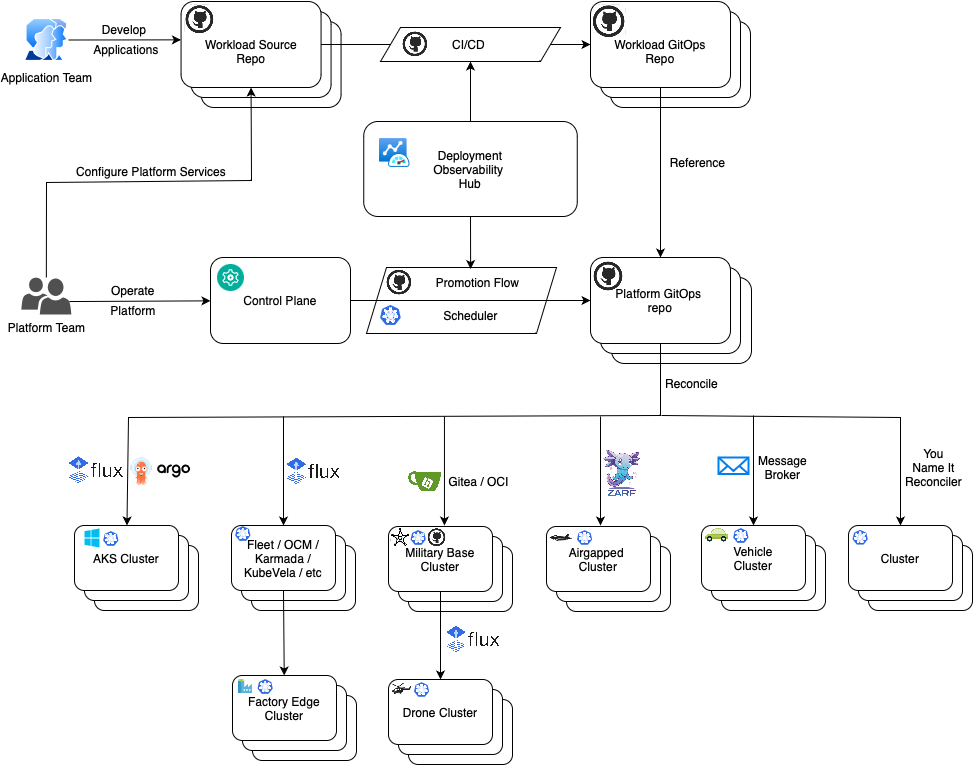
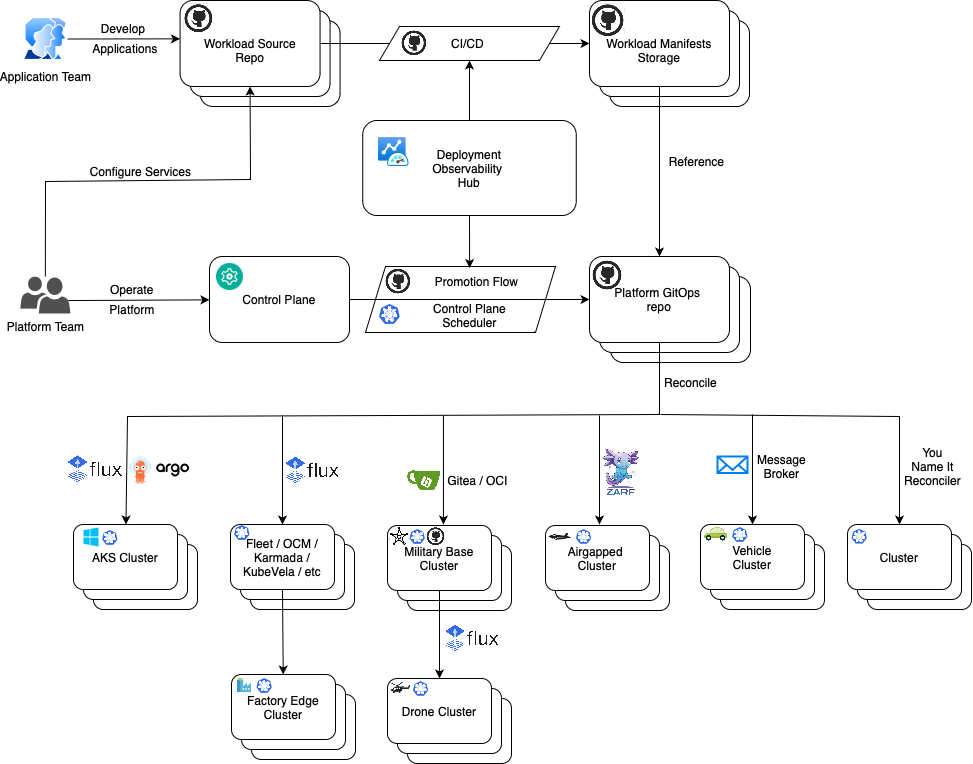
readme

diff --git a/README.md b/README.md
@@ -20,6 +20,7 @@ The scenarios described above can be handled manually with a handful of scripts 
 - Promotion of the fleet state through a chain of environments
 - Sophisticated, extensible and replaceable scheduler
 - Flexibility to use different reconcilers for different cluster types depending in their nature and connectivity
+- Abstracting Application Team away from the details of the clusters in the fleet
 
 ### Existing projects
 
@@ -62,7 +63,7 @@ Application Operators work with the applications on the clusters on the edge. Th
 
 The diagram above describes interaction between the roles and the major components of the solution. The primary concept of the whole process is separation of concerns. There are workloads, such as applications and platform services, and there is a platform where these workloads are working on. Application team takes care of the workloads (*what*), while the platform team is focused on the platform (*where*).
 
-Application Team runs SDLC of their applications and promotes changes across environments. Application Team doesn't operate with the notion of the cluster. They have no idea on which clusters their application will be deployed in each environments. Application Team operates with the concept of *Deployment Target*, which is just an abstraction within an environment. Examples of deployment targets could be: *Integration* on Dev, *functional tests* and *performance tests* on QA, *early adopters* and *external users* on Prod and so on. Application Team defines deployment targets for each environment and they know how to configure their application and how to generate manifests for each deployment target. This process is owned by Application Team, it is automated and exists in the application repositories space. The outcome of the Application Team is generated manifests for each deployment target, stored in a git repository.
+Application Team runs SDLC of their applications and promotes changes across environments. Application Team doesn't operate with the notion of the cluster. They have no idea on which clusters their application will be deployed in each environments. Application Team operates with the concept of *Deployment Target*, which is just an abstraction within an environment. Examples of deployment targets could be: *Integration* on Dev, *functional tests* and *performance tests* on QA, *early adopters* and *external users* on Prod and so on. Application Team defines deployment targets for each environment and they know how to configure their application and how to generate manifests for each deployment target. This process is owned by Application Team, it is automated and exists in the application repositories space. The outcome of the Application Team is generated manifests for each deployment target, stored in a manifests storage, such as a Git repository.
 
 Platform team has a very limited knowledge about the applications and therefore is not involved in the application configuration and deployment process. Platform team is in charge of platform clusters, that are grouped in *Cluster Types*. They describe *Cluster Types* with configuration values, such as DNS names, endpoints of external services and so on. Platform team assigns (*schedules*) application deployment targets to various cluster types. With that in place, the application behavior will be determined by the combination of *Deployment Target* configuration values, provided by Application Team, and *Cluster Type* configuration values, provided by the Platform Team.  
 
@@ -73,15 +74,15 @@ Clusters report their compliance state with GitOps repositories to the *Deployme
 ## Primary Use Cases
 
 - [Platform team onboards a workload](./docs/use-cases/platform-team-onboards-workload.md)
-- [Platform team defines a cluster type](./docs/images/under-construction.png)
-- [Platform team provides a configuration value for a cluster type](./docs/images/under-construction.png)
-- [Platform team schedules an application on cluster types](./docs/images/under-construction.png)
-- [Application team defines application deployment targets](./docs/images/under-construction.png)
-- [Application team provides a configuration value for a deployment target](./docs/images/under-construction.png)
-- [Application team updates the application](./docs/images/under-construction.png)
-- [Platform team defines service deployment targets](./docs/images/under-construction.png)
-- [Platform team provides a configuration value for a service deployment target](./docs/images/under-construction.png)
-- [Platform team updates a platform service](./docs/images/under-construction.png)
+- [Platform team defines a cluster type](./docs/use-cases/platform-team-defines-cluster-type.md)
+- [Platform team provides configuration values for a cluster type](./docs/use-cases/platform-team-config-values.md)
+- [Platform team schedules an application on cluster types](./docs/use-cases/platform-team-scheduled-application.md)
+- [Application team defines application deployment targets](./docs/use-cases/application-team-defines-deployment-targets.md)
+- [Application team provides a configuration value for a deployment target](./docs/use-cases/application-team-provides-configuration-value.md)
+- [Application team updates the application](./docs/use-cases/application-team-updates-application.md)
+- [Platform team defines service deployment targets](./docs/use-cases/platform-team-defines-deployment-targets.md)
+- [Platform team provides a configuration value for a service deployment target](./docs/use-cases/platform-team-provides-configuration-value.md)
+- [Platform team adds a platform service](./docs/use-cases/platform-team-adds-platform-service.md)
 
 ## Design Details
 
@@ -140,7 +141,7 @@ In the *Platform GitOps repo* each workload assignment to a *ClusterType* is rep
 - A dedicated namespace for this workload on a cluster of this type
 - Platform policies restricting workload permissions
 - Consolidated platform config maps and secrets that the workload can use
-- Reconciler resources pointing to a *Workload GitOps repo* where the actual workload manifests live. E.g. Flux GitRepository and Flux Kustomization, ArgoCD Application, Zarf descriptors, etc.
+- Reconciler resources pointing to a *Workload Manifests Storage* where the actual workload manifests or Helm charts live. E.g. Flux GitRepository and Flux Kustomization, ArgoCD Application, Zarf descriptors, etc.
 
 ### Dial-tone services
 
@@ -152,7 +153,7 @@ Dial-tone services are workloads and therefore they live in their own source/Git
 
 ### Cluster types and Reconcilers
 
-Every single cluster type can use a different reconciler to deliver manifests from the *GitOps repos*. Reconciler examples are Flux, ArgoCD, Zarf, Rancher Fleet, etc. *Cluster Type* definition refers to a *reconciler*, which is merely a named collection of manifest templates. The scheduler uses these templates to produce reconciler resources such as Flux GitRepository and Flux Kustomization, ArgoCD Application, Zarf descriptors, etc. The very same workload may be scheduled to the *Cluster Types* managed by different reconcilers, for example Flux and ArgoCD. The scheduler will generate Flux GitRepository and Flux Kustomization for one cluster and ArgoCD Application for another cluster, but both of them will point to the same *Workload GitOps repository* containing the workload manifests.
+Every single cluster type can use a different reconciler to deliver manifests from the *Workload Manifests Storages*. Reconciler examples are Flux, ArgoCD, Zarf, Rancher Fleet, etc. *Cluster Type* definition refers to a *reconciler*, which is merely a named collection of manifest templates. The scheduler uses these templates to produce reconciler resources such as Flux GitRepository and Flux Kustomization, ArgoCD Application, Zarf descriptors, etc. The very same workload may be scheduled to the *Cluster Types* managed by different reconcilers, for example Flux and ArgoCD. The scheduler will generate Flux GitRepository and Flux Kustomization for one cluster and ArgoCD Application for another cluster, but both of them will point to the same *Workload Manifests Storage* containing the workload manifests.
 
 ### Extensible Scheduler
 
@@ -160,7 +161,7 @@ Kalypso scheduler operates with the [Control Plane abstractions](https://github.
 
 ### Deployment Observability Hub
 
-Deployment Observability Hub is implemented as a central storage which is easy to query with complex queries against a large amount of data. It contains deployment data with the historical information on the workload versions and their deployment state across clusters in the fleet. Clusters register themselves in the storage and update their compliance status with an agent (e.g. Arc Flux Configuration agent). Clusters operate at the level of GitOps commits only. High level information, such as application versions, environments, cluster types is transferred to the central storage from the *GitOps repos*. In the central storage the high level information gets correlated with the commit compliance data coming from the clusters. See the details in the [Kalypso Observability Hub](./docs/images/under-construction.png) repo.
+Deployment Observability Hub is implemented as a central storage which is easy to query with complex queries against a large amount of data. It contains deployment data with the historical information on the workload versions and their deployment state across clusters in the fleet. Clusters register themselves in the storage and update their compliance status with an agent (e.g. Arc Flux Configuration agent). Clusters operate at the level of GitOps commits only. High level information, such as application versions, environments, cluster types is transferred to the central storage from the *Workload Manifests Storages*. In the central storage the high level information gets correlated with the commit compliance data coming from the clusters. See the details in the [Kalypso Observability Hub](./docs/images/under-construction.png) repo.
 
 ## Referenced Repositories
 

diff --git a/docs/use-cases/platform-team-adds-platform-service.md b/docs/use-cases/platform-team-adds-platform-service.md
@@ -1,0 +1,13 @@
+# Platform team adds a platform service
+
+*Preconditions*:
+
+- Platform Service Source repo exists
+- Platform Service Manifest Storage exists
+
+*Postconditions*:
+
+- Platform Service Manifests and images are pulled and checked
+- Manifests for the deployment targets are generated and put in the corresponding storage places 
+
+Platform team submits a PR to the *main* branch in the Service Source repository with a file, that contains a reference to the external manifests storage. For example, a reference to a Grafana Helm chart in https://grafana.github.io/helm-charts. Once the PR is merged to *main*, it starts a CI/CD workflow. The workflow pulls the manifests from the external storage, pulls service images and performs standard security scanning. Then, it generates manifests for the deployment targets defined for the first environment in the rollout chain (e.g. *dev*) and places them to the Manifest Storage, such as an OCI storage or a local Helm repo, or just a Git repo. The manifests are generated with the config values provided for the deployment target in the config branch of the Service Source repository. Once the Platform Team is satisfied with the deployment to the first environment, they promote the change to the next environment, so the CD workflow goes ahead and generates manifests for the deployment targets in that environment.     

diff --git a/docs/use-cases/platform-team-config-values.md b/docs/use-cases/platform-team-config-values.md
@@ -1,0 +1,14 @@
+# Platform team provides configuration values for a cluster type
+
+*Preconditions*:
+
+- Control Plane and Platform GitOps repositories exist and have environment branches  
+
+*Postconditions*:
+
+- Configuration values are stored in the control plane
+- Deployment target subfolders in the Platform GitOps repository contain consolidated config maps with all platform config values available on the cluster type
+
+Platform Team submits a PR to the control plane environment branch (e.g. *dev* or *stage*) with the a config map containing platform config values. The config map is marked with a set of custom labels. Once the PR is reviewed and merged, the scheduler scans all config maps in the environment and collects values for each cluster type basing on the label matching. Then, it creates a PR to the Platform GitOps repository with a consolidated config map in every deployment target folder. The config map contains all platform configuration values, that the workload can use on this cluster type in this environment.
+
+

diff --git a/docs/use-cases/application-team-updates-application.md b/docs/use-cases/application-team-updates-application.md
@@ -1,0 +1,13 @@
+# Application team updates the application
+
+*Preconditions*:
+
+- Application Source repo exists
+- Application Manifest Storage exists
+
+*Postconditions*:
+
+- Application is rebuilt
+- Manifests for the deployment targets are generated and put in the corresponding storage places 
+
+Application Team submits a PR with the source code change to the *main* branch in the Application Source repository. Once the PR is merged to *main*, it starts a CI/CD workflow. The workflow performs standard code quality and security checks, builds application Docker images and pushes them to the container registry. Then, it generates manifests for the deployment targets defined for the first environment in the rollout chain (e.g. *dev*) and places them to the Manifest Storage. Once the Application Team is satisfied with the deployment to the first environment, they promote the change to the next environment, so the CD workflow goes ahead and generates manifests for the deployment targets in that environment.     

diff --git a/docs/use-cases/platform-team-scheduled-application.md b/docs/use-cases/platform-team-scheduled-application.md
@@ -1,0 +1,15 @@
+# Platform team schedules an application on cluster types
+
+*Preconditions*:
+
+- Control Plane and Platform GitOps repositories exist and have environment branches  
+
+*Postconditions*:
+
+- Scheduling policy is configured in the control plane
+- Application deployment targets are assigned to the cluster types in the Platform GitOps repo 
+
+Platform Team submits a PR to the control plane environment branch (e.g. *dev* or *stage*) with a scheduling policy, that defines rules of how deployment targets should be scheduled to cluster types. The rules might be trivial, based on label matching, or they can include score-based configurations defined by OCM Placement API. Once the PR is reviewed and merged, the scheduler analyzes what deployment targets should be assigned to what cluster types in the environment. It generates assignment manifests and creates a PR to the environment branch of the Platform GitOps repository. 
+
+
+

diff --git a/docs/use-cases/application-team-defines-deployment-targets.md b/docs/use-cases/application-team-defines-deployment-targets.md
@@ -1,0 +1,15 @@
+# Application team defines application deployment targets
+
+*Preconditions*:
+
+- Application Source repo exists  
+
+*Postconditions*:
+
+- Application deployment targets are defined in the Application Source repo
+
+Application Team creates a file in their source repository containing a list of deployment targets where the application might be deployed during its lifecycle. Each deployment target references a rollout environment (e.g. *dev*, *stage*) and a place where the manifests for this deployment target are stored. It can be plain K8s manifests, Helm charts, or any other deployment descriptors, stored in a repo or OCI storage or any other storage that a reconciler on the clusters can understand. Each deployment target is marked with a set of custom labels that the Platform Team uses to schedule the deployment target on the clusters in the fleet.
+
+
+
+

diff --git a/docs/use-cases/platform-team-defines-deployment-targets.md b/docs/use-cases/platform-team-defines-deployment-targets.md
@@ -1,0 +1,15 @@
+# Platform team defines service deployment targets
+
+*Preconditions*:
+
+- Platform Service Source repo exists  
+
+*Postconditions*:
+
+- Service deployment targets are defined in the Platform Service Source repo
+
+Platform Team creates a file in their service source repository containing a list of deployment targets where the service might be deployed in the fleet. Each deployment target references a rollout environment (e.g. *dev*, *stage*) and a place where the manifests for this deployment target are stored. It can be plain K8s manifests, Helm charts, or any other deployment descriptors, stored in a repo or OCI storage or any other storage that a reconciler on the clusters can understand. Each deployment target is marked with a set of custom labels to automatically schedule the deployment target on the clusters in the fleet.
+
+
+
+

diff --git a/docs/use-cases/platform-team-provides-configuration-value.md b/docs/use-cases/platform-team-provides-configuration-value.md
@@ -1,0 +1,18 @@
+# Platform team provides a configuration value for a service deployment target
+
+*Preconditions*:
+
+- Platform Service Source repo exists
+
+*Postconditions*:
+
+- Configuration value for the deployment target is set in the Platform Service Source repo
+
+Platform Service Source repo contains configuration branches with configuration values for each environment. Each configuration branch contain folders representing deployment targets. Platform Team creates a file in a corresponding folder of the configuration branch with the config values. These values are used by the service CI/CD pipeline to generate manifests for this deployment target.
+
+Alternatively, Platform Team may prefer to use an external storage (e.g. variable groups, key vault, configuration tools, etc.) for the configuration values rather than Git repository.
+
+
+
+
+

diff --git a/docs/use-cases/application-team-provides-configuration-value.md b/docs/use-cases/application-team-provides-configuration-value.md
@@ -1,0 +1,18 @@
+# Application team provides a configuration value for a deployment target
+
+*Preconditions*:
+
+- Application Source repo exists
+
+*Postconditions*:
+
+- Configuration value for the deployment target is set in the Application Source repo
+
+Application Source repo contains configuration branches with configuration values for each environment. Each configuration branch contain folders representing deployment targets. Application Team creates a file in a corresponding folder of the configuration branch with the config values. These values are used by the application CI/CD pipeline to generate manifests for this deployment target.
+
+Alternatively, Application Team may prefer to use an external storage (e.g. variable groups, key vault, configuration tools, etc.) for the configuration values rather than Git repository.
+
+
+
+
+

diff --git a/docs/use-cases/platform-team-defines-cluster-type.md b/docs/use-cases/platform-team-defines-cluster-type.md
@@ -1,0 +1,13 @@
+# Platform team defines a cluster type
+
+*Preconditions*:
+
+- Control Plane and Platform GitOps repositories exist and have environment branches  
+
+*Postconditions*:
+
+- Information on the new cluster type is stored in the control plane environment branches
+- Platform GitOps repository environment branches contain folders representing the cluster type with the subfolders representing deployment targets scheduled on the cluster type
+
+Platform Team submits a PR to the control plane environment branch (e.g. *dev* or *stage*) with the information on the cluster type. Once the PR is reviewed and merged, the scheduler analyzes what deployment targets should be assigned to this cluster type. It generates assignment manifests and creates a PR to the environment branch of the Platform GitOps repository.  
+

diff --git a/docs/use-cases/platform-team-onboards-workload.md b/docs/use-cases/platform-team-onboards-workload.md
@@ -2,7 +2,7 @@
 
 *Preconditions*:
 
-- Control Plane and GitOps repositories exist
+- Control Plane and Platform GitOps repositories exist
 - Workload GitOps repository exists
 
 *Postconditions*:
